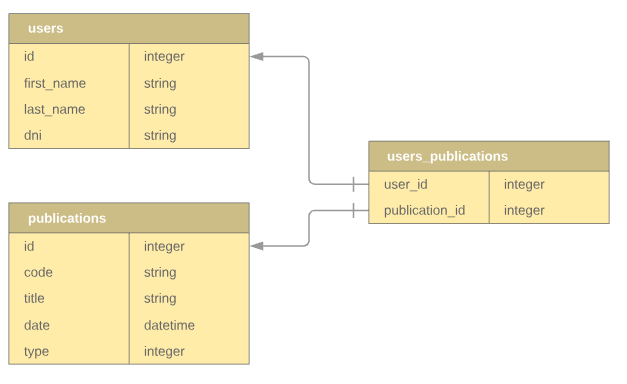
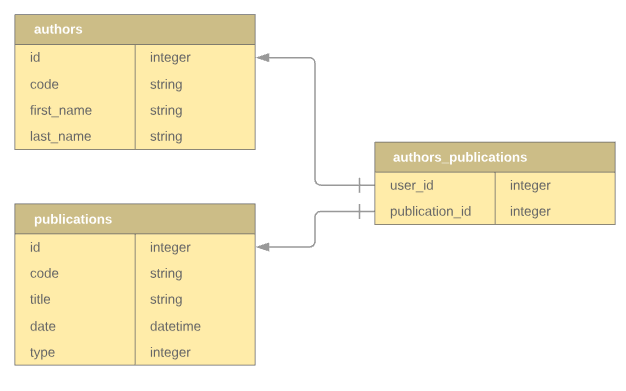
redo author_publication

Changed region(s): [[0.0, 0.125, 1.0, 0.9688], [0.0, 0.0312, 0.4553, 0.4062]]

diff --git a/README.md b/README.md
@@ -603,12 +603,12 @@ end
 
     ```ruby
     
-      class CreateUserPublications < ActiveRecord::Migration[5.0]
+      class CreateAuthorPublications < ActiveRecord::Migration[5.0]
         def change
-          create_table :user do |t|
+          create_table :author do |t|
             t.string :fist_name
             t.string :last_name
-            t.string :dni
+            t.string :code
             t.timestamps
           end
       
@@ -620,13 +620,11 @@ end
             t.timestamps
           end
       
-          create_table :user_publications, id: false do |t|
-            t.belongs_to :user, index: true
+          create_table :author_publications, id: false do |t|
+            t.belongs_to :author, index: true
             t.belongs_to :publication, index: true
           end
         end
       end
     ```
   *Basado en [Active record associations, Ruby guides](https://edgeguides.rubyonrails.org/association_basics.html)*
-
-
